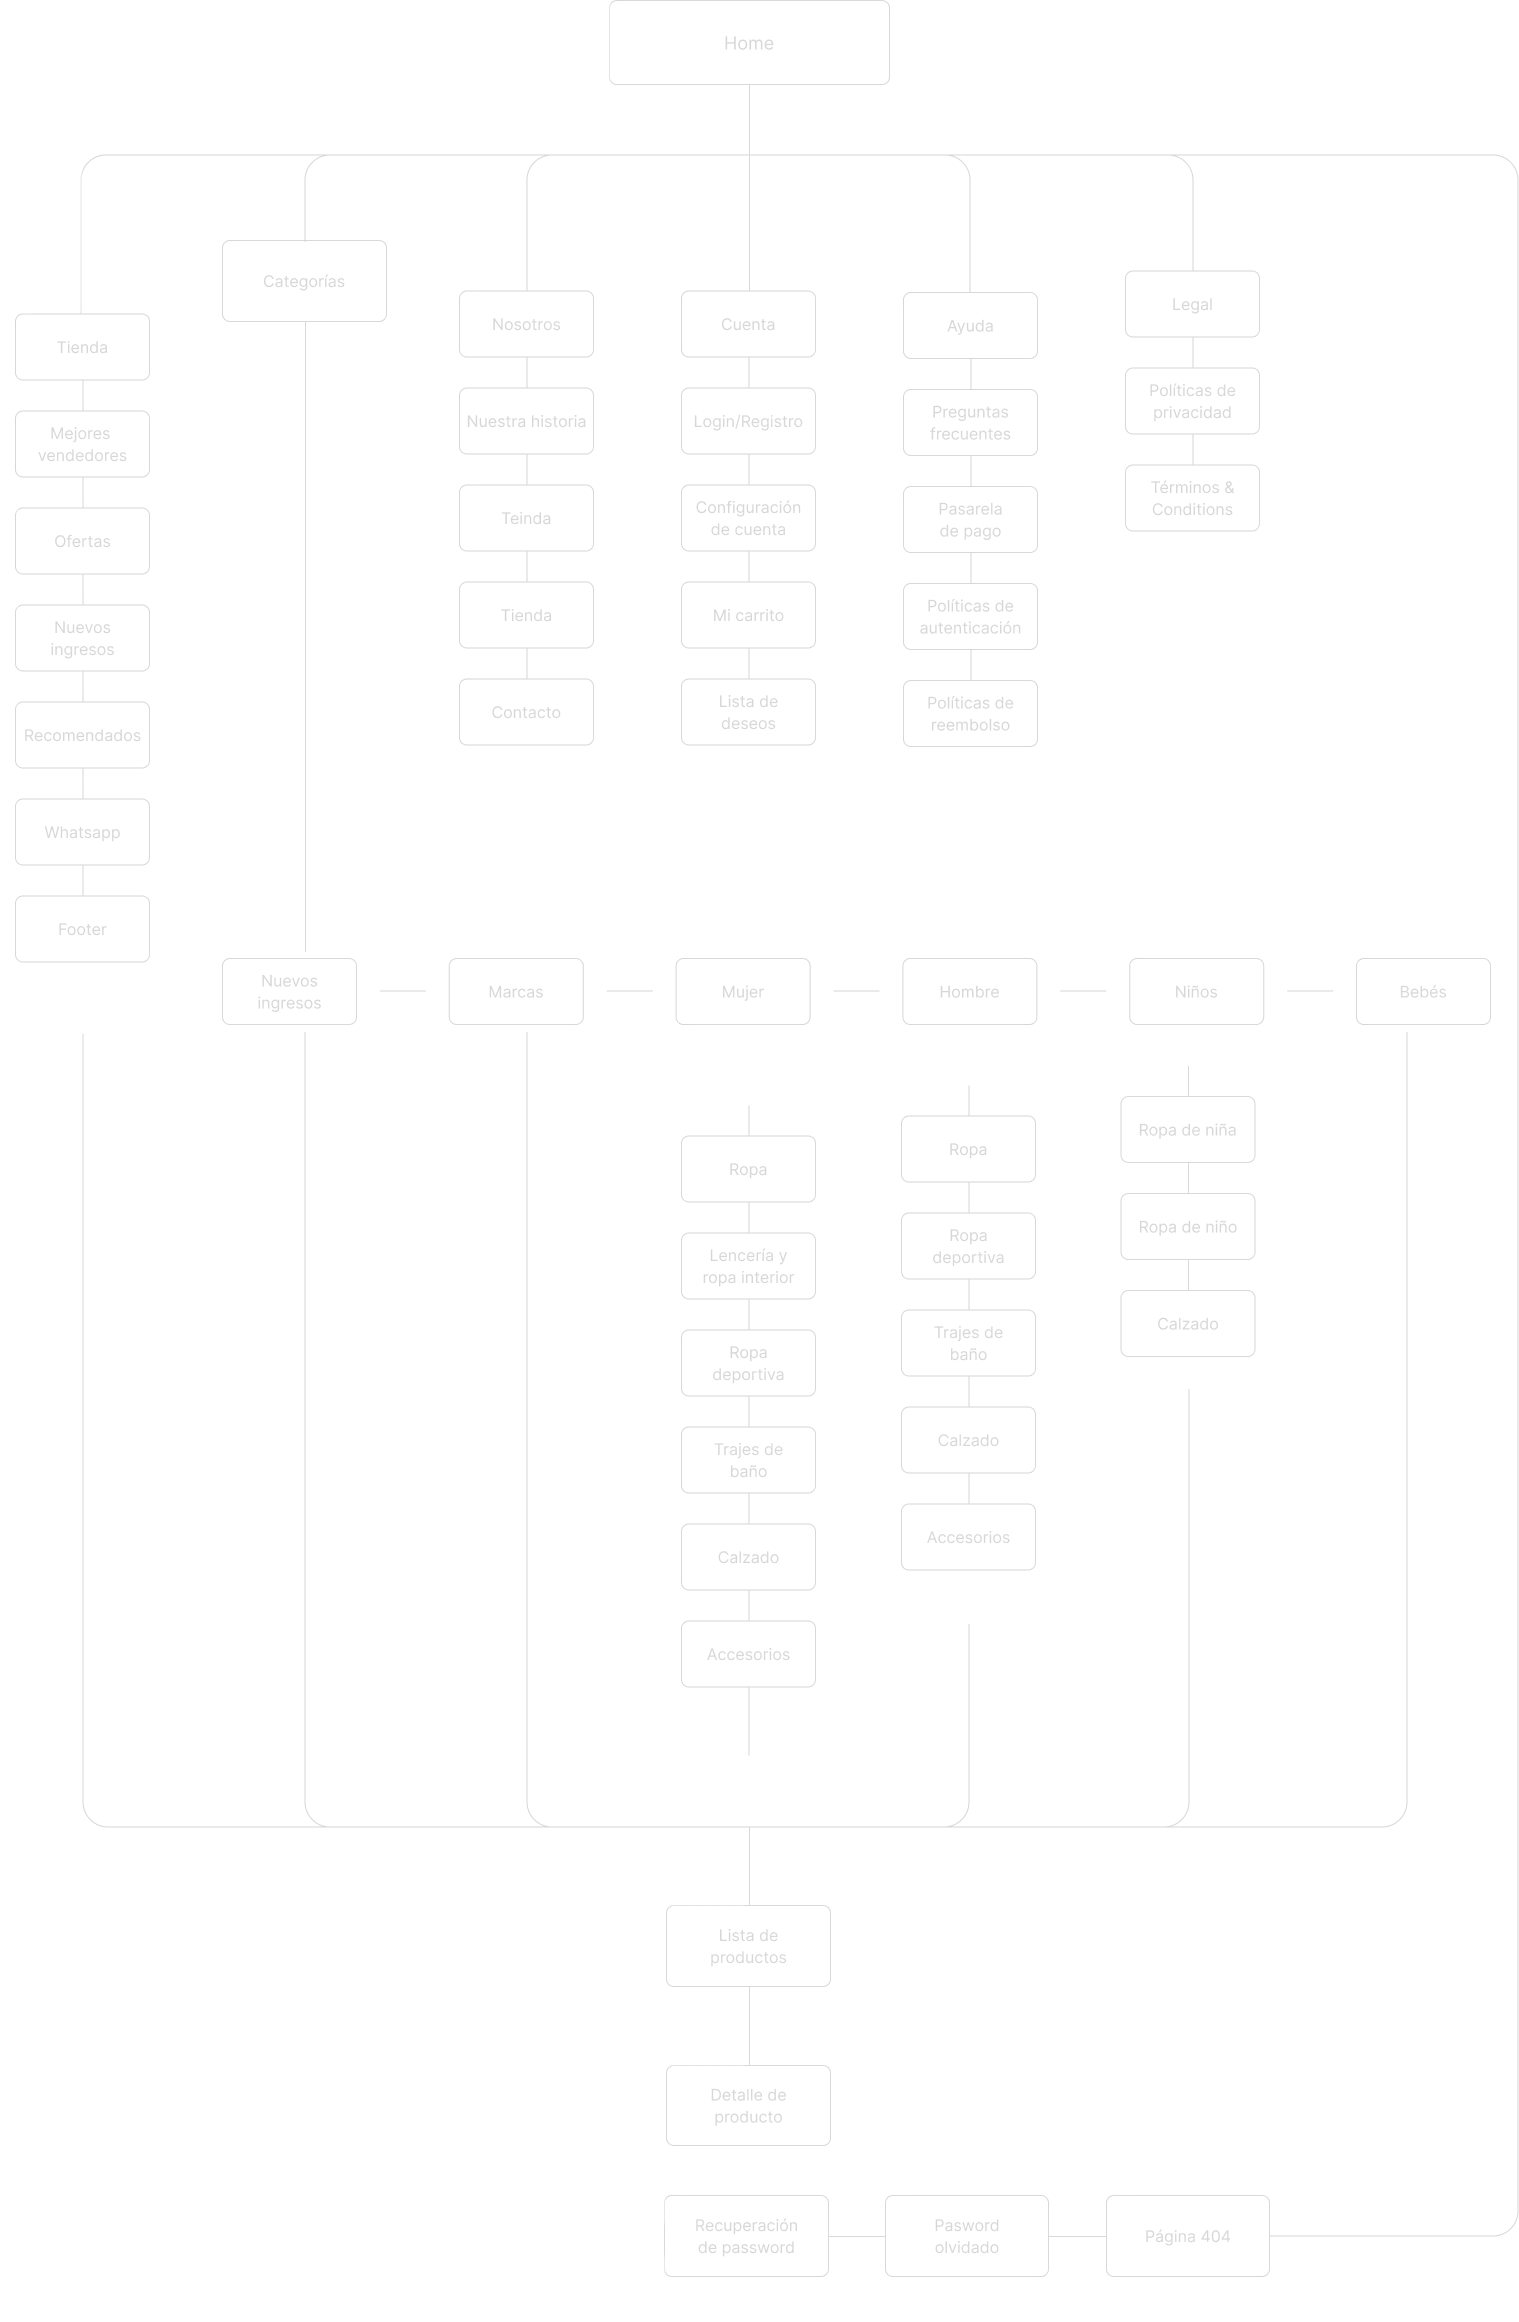
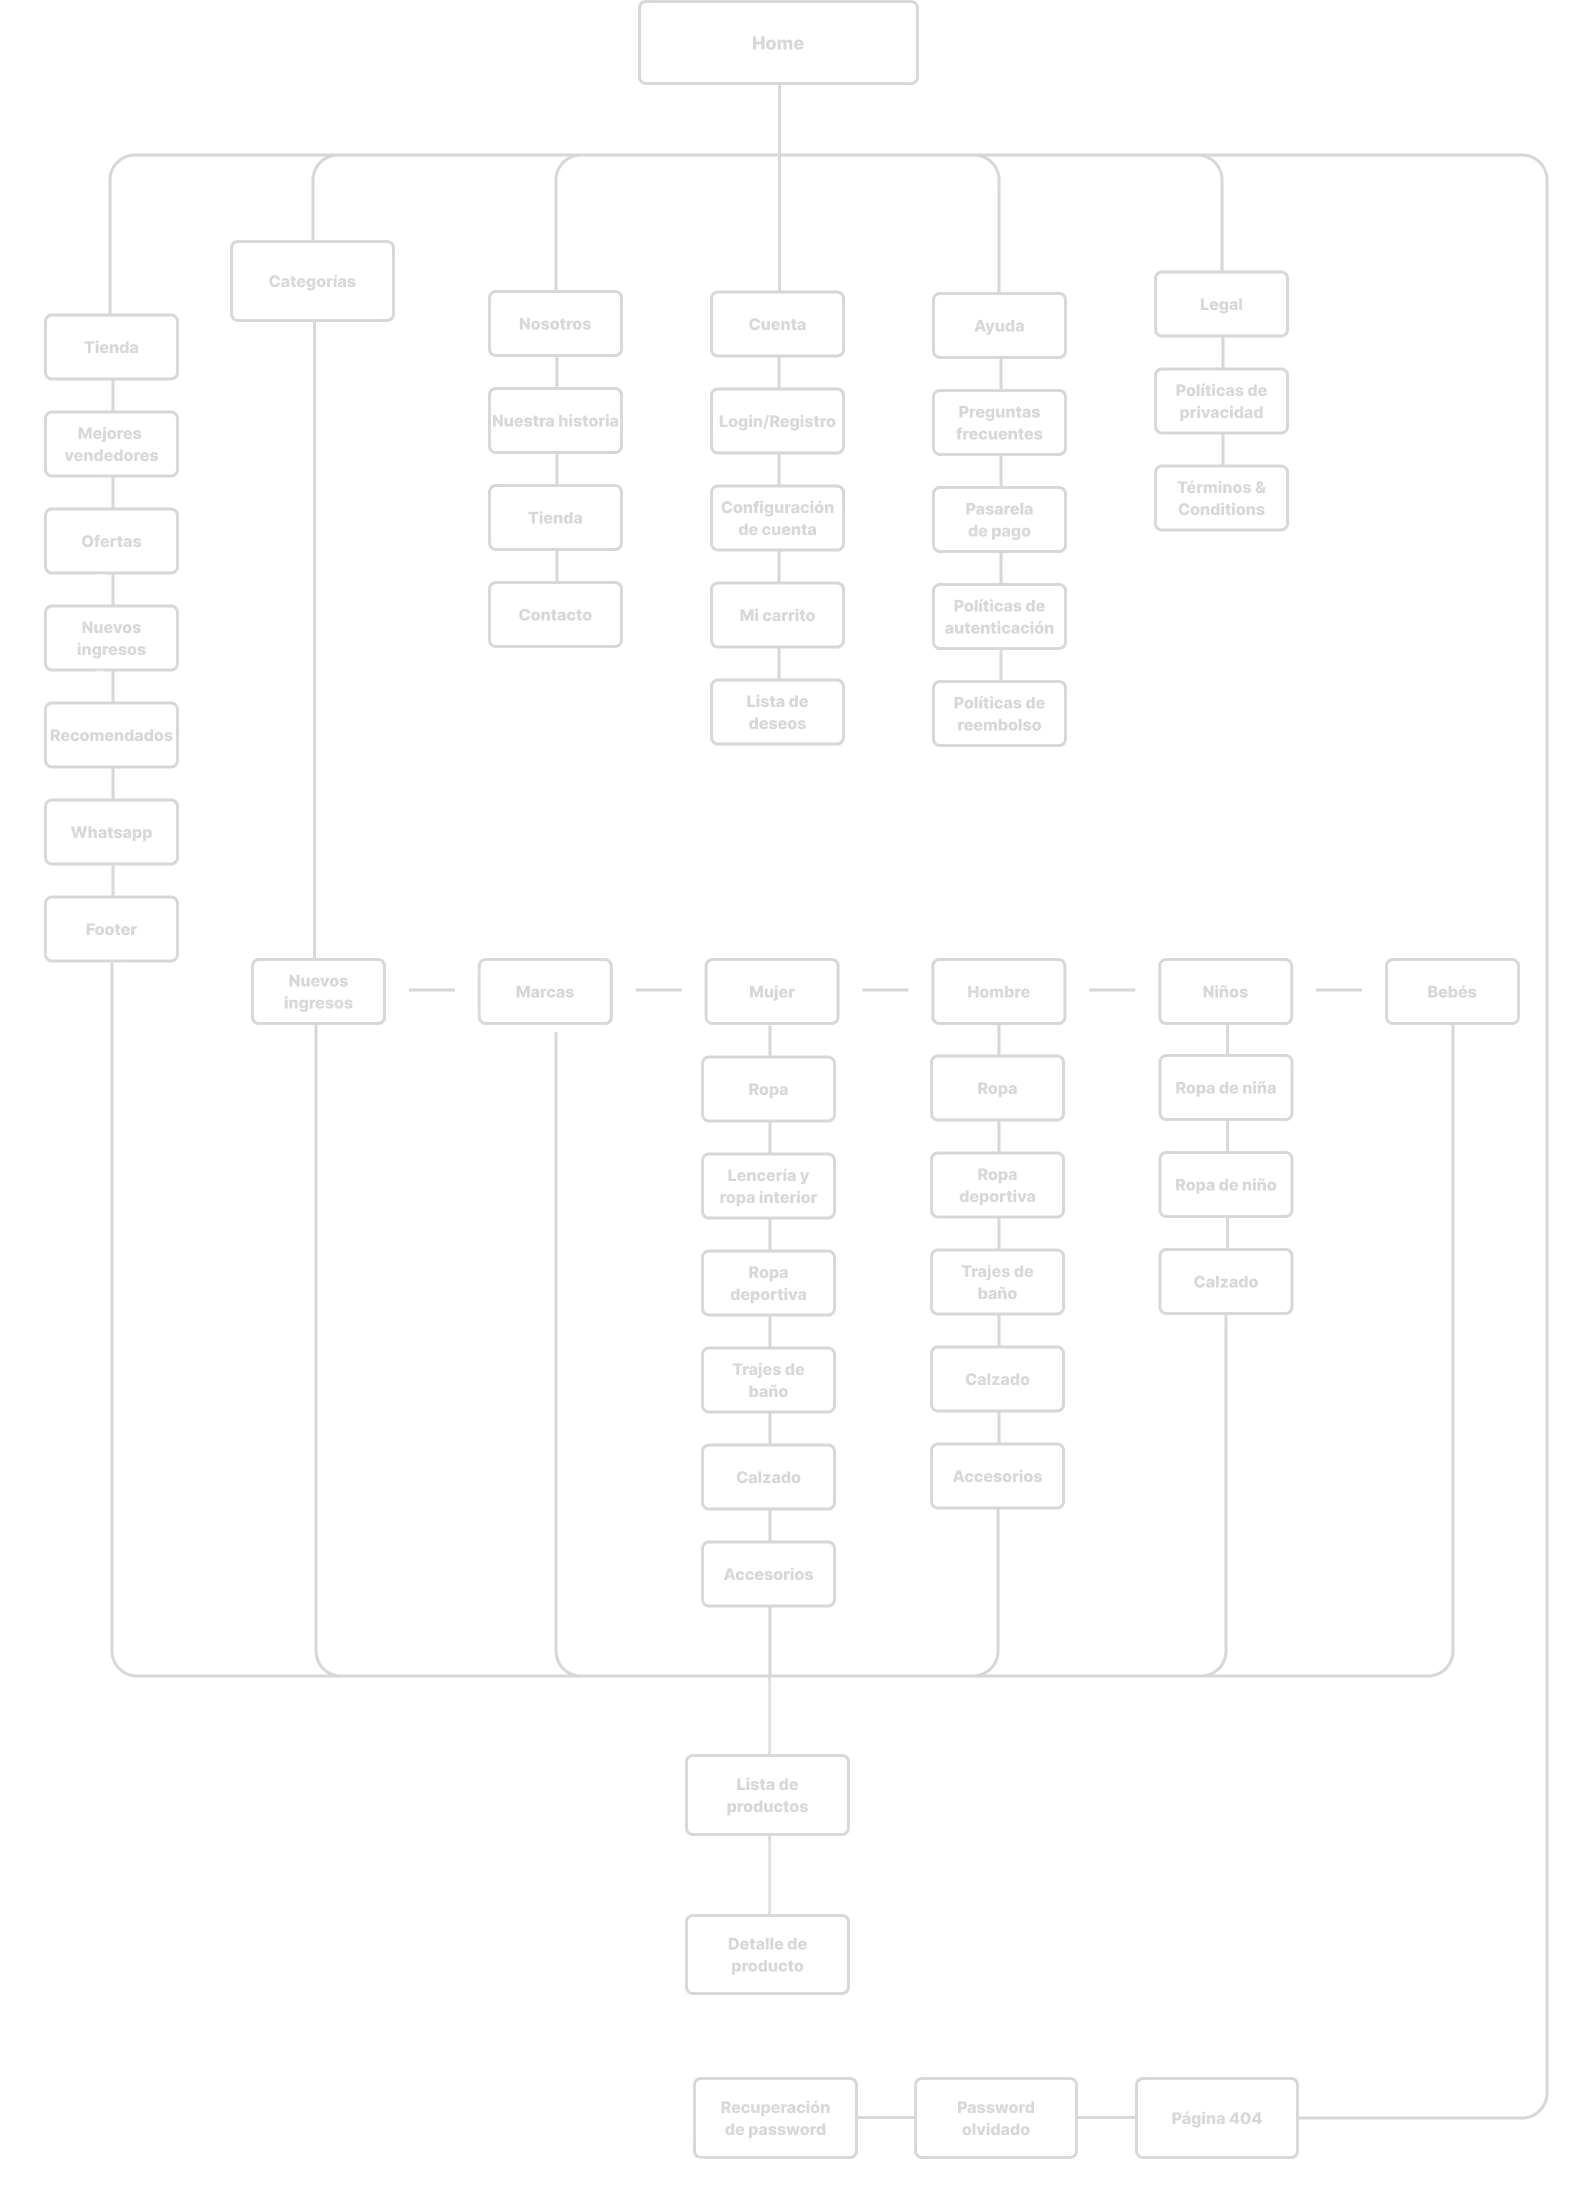
Mall images update

diff --git a/src/app/trabajos/[id]/page.jsx b/src/app/trabajos/[id]/page.jsx
@@ -93,8 +93,9 @@ export function generateStaticParams() {
   }));
 }
 
-export function generateMetadata({ params }) {
-  const project = projects.find((p) => p.id === params.id);
+export async function generateMetadata({ params }) {
+  const { id } = await params;
+  const project = projects.find((p) => p.id === id);
   if (!project) return { title: 'Proyecto no encontrado' };
 
   return {

diff --git a/src/components/Hero/Hero.jsx b/src/components/Hero/Hero.jsx
@@ -22,10 +22,10 @@ export default function Hero() {
       className={`${styles.hero} container`}
       aria-labelledby="hero-heading"
     >
-      <h1 id="hero-heading" className={styles.tagline}>
+      {/* <h1 id="hero-heading" className={styles.tagline}>
         Damos vida a marcas con historias y experiencias a través
         del diseño y la tecnología.
-      </h1>
+      </h1> */}
 
       <div className={styles.videoWrapper}>
         <video

diff --git a/src/data/projects.js b/src/data/projects.js
@@ -52,6 +52,7 @@ export const projects = [
     detailImage: '/images/user_mall.webp',
     detailImage2: '/images/card_sorting_mall.webp',
     detailImage3: '/images/sitemap_mall.webp',
+    detailImage4: '/images/user_flow.webp',
     client: 'Mall',
     year: '2024',
     services: ['Diseño de Identidad', 'Motion Graphics']